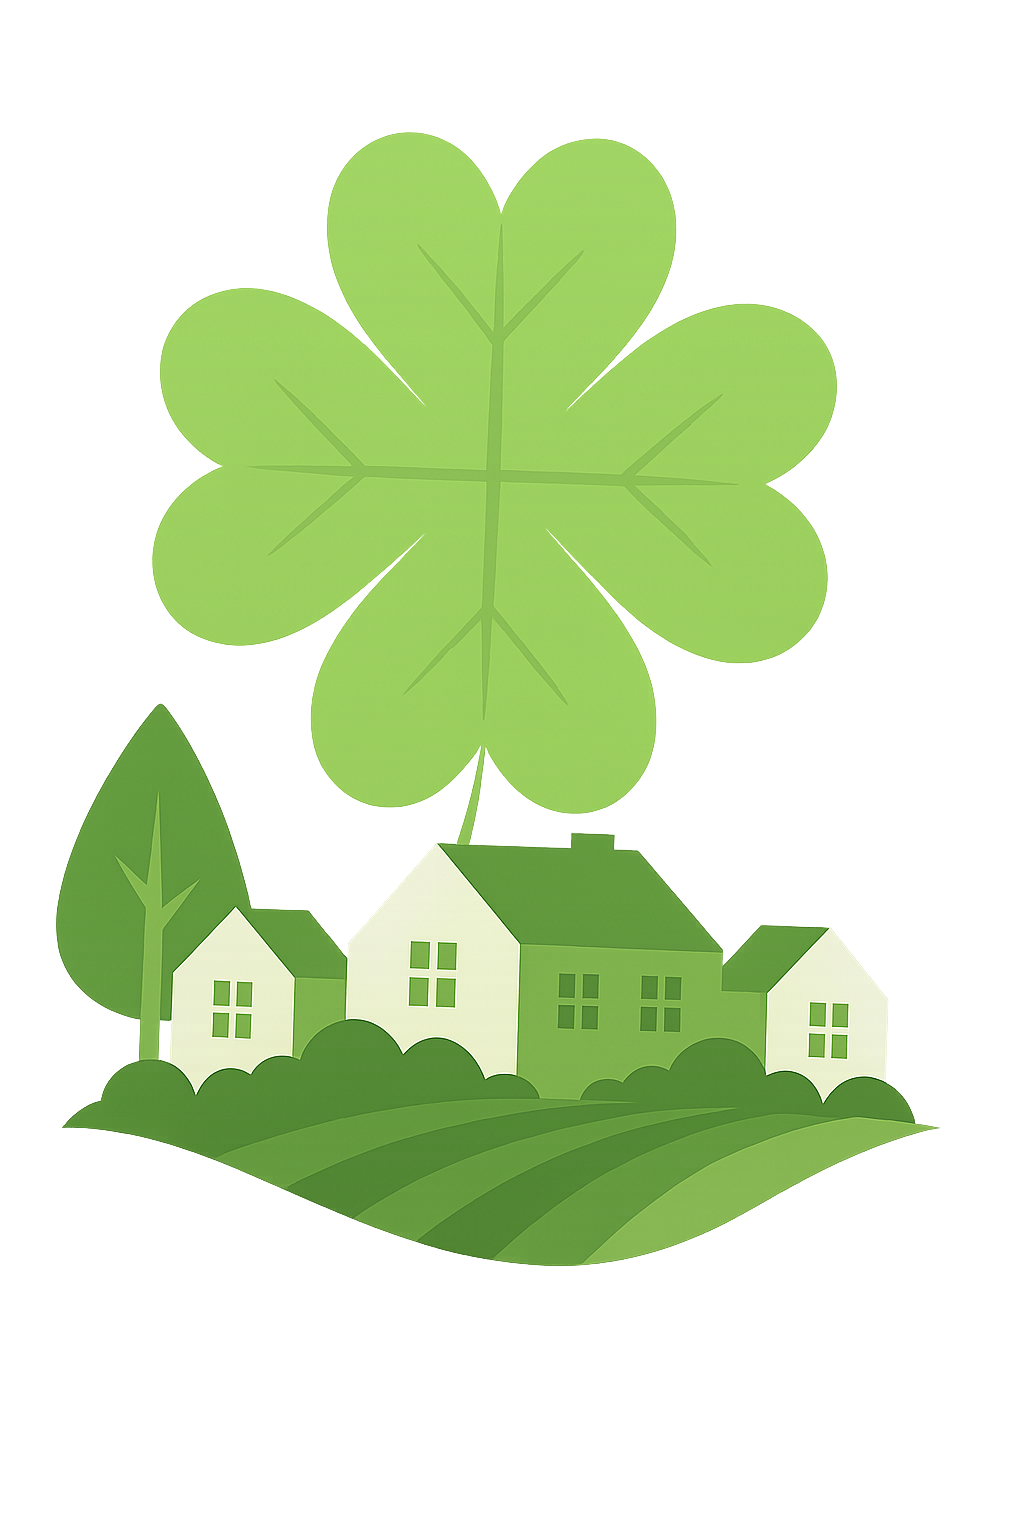
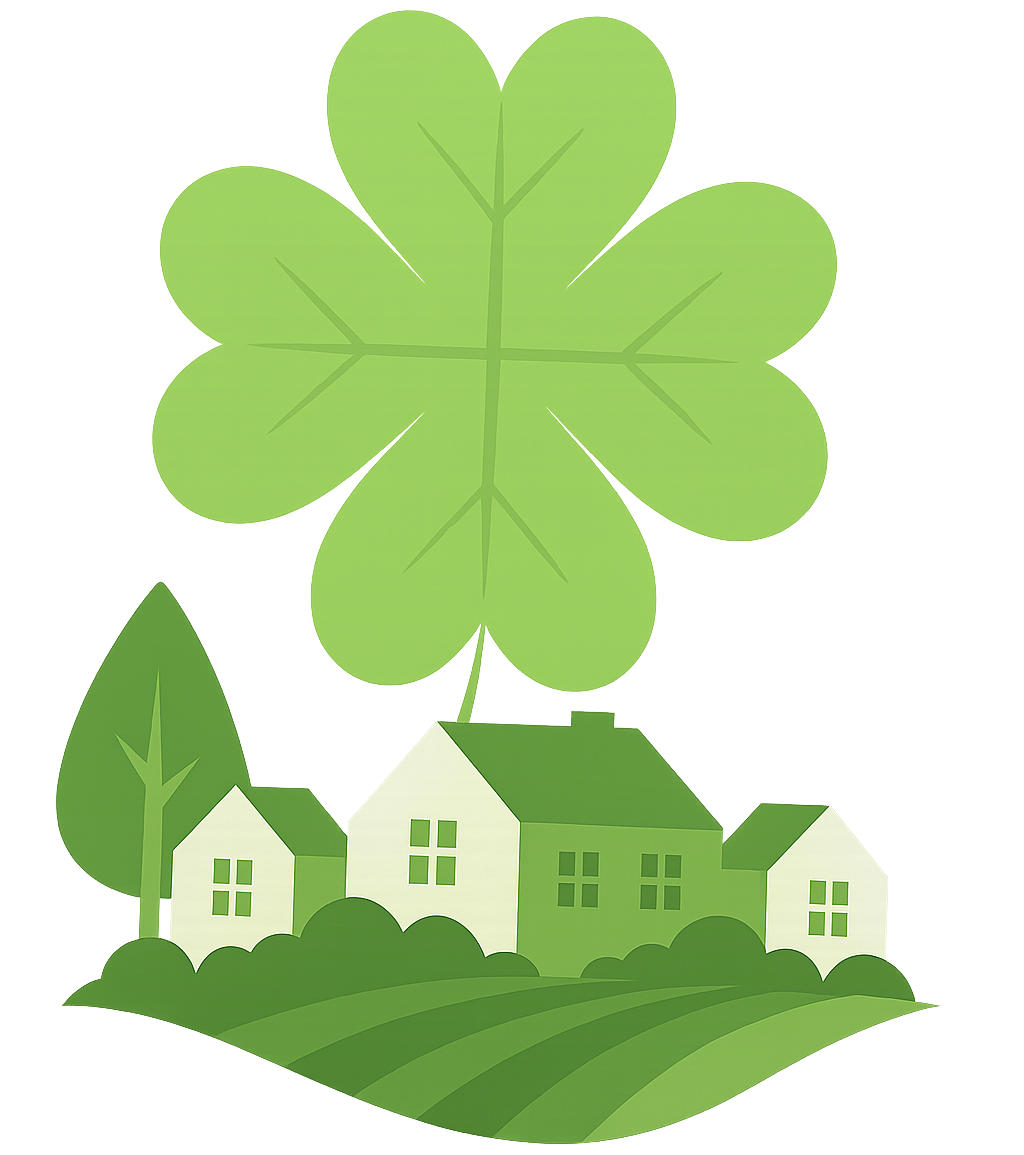
trade offers page

diff --git a/trade_offers.html b/trade_offers.html
@@ -1,0 +1,65 @@
+<!DOCTYPE html>
+<html lang="en">
+<head>
+  <meta charset="UTF-8">
+  <title>Trade Offers - Cloverville</title>
+  <link rel="stylesheet" href="css/trade_offers.css">
+  <meta name="viewport" content="width=device-width, initial-scale=1.0">
+</head>
+<body>
+
+  <!-- TOP BAR -->
+  <header class="top-bar">
+    <a href="index.html"><div class="brand"><img src="images/logo.png" alt="Cloverville logo"></div></a>
+
+    <nav class="main-nav">
+      <a href="#" class="active">Trade Offers</a>
+      <a href="#">Focus Tasks</a>
+      <a href="#">Green Actions</a>
+      <a href="#">About us</a>
+    </nav>
+  </header>
+
+  <!-- PAGE TITLE -->
+  <main>
+    <h1 class="page-title">Trade Offers</h1>
+
+    <!-- TRADE TABLE -->
+    <section class="table-section">
+      <table class="trade-table">
+        <thead>
+          <tr>
+            <th class="owner-col">Owner</th>
+            <th>Trade Offer</th>
+            <th>Exchange for<br>(points or servise)</th>
+          </tr>
+        </thead>
+
+        <tbody>
+          <tr>
+            <td class="owner-name">Labubu</td>
+            <td>Sed ut perspiciatis unde omnis iste natus error sit voluptatem</td>
+            <td>Sed ut perspiciatis unde omnis iste natus error sit voluptatem</td>
+          </tr>
+          <tr>
+            <td class="owner-name">Labubu</td>
+            <td>Sed ut perspiciatis unde omnis iste natus error sit voluptatem</td>
+            <td>Sed ut perspiciatis unde omnis iste natus error sit voluptatem</td>
+          </tr>
+          <tr>
+            <td class="owner-name">Labubu</td>
+            <td>Sed ut perspiciatis unde omnis iste natus error sit voluptatem</td>
+            <td>Sed ut perspiciatis unde omnis iste natus error sit voluptatem</td>
+          </tr>
+          <tr>
+            <td class="owner-name">Labubu</td>
+            <td>Sed ut perspiciatis unde omnis iste natus error sit voluptatem</td>
+            <td>Sed ut perspiciatis unde omnis iste natus error sit voluptatem</td>
+          </tr>
+        </tbody>
+      </table>
+    </section>
+  </main>
+
+</body>
+</html>

diff --git a/css/trade_offers.css b/css/trade_offers.css
@@ -1,0 +1,105 @@
+* {
+  box-sizing: border-box;
+}
+
+body {
+  margin: 0;
+  font-family: Arial, sans-serif;
+  background-color: #f5f3e8;
+  color: #234126;
+}
+
+/* TOP BAR */
+.top-bar {
+  display: flex;
+  justify-content: space-between;
+  align-items: center;
+  padding: 16px 40px;
+  font-size: 18px;
+}
+
+.brand img{
+    width: 140px;
+  height: auto;
+}
+
+.main-nav a {
+  display: inline-block;
+  margin-left: 24px;
+  padding: 6px 10px;
+  text-decoration: none;
+  color: #234126;
+}
+
+.main-nav a.active {
+  font-weight: bold;
+}
+
+.main-nav a:hover {
+  text-decoration: underline;
+}
+
+/* PAGE TITLE */
+.page-title {
+  text-align: center;
+  margin-top: 40px;
+  margin-bottom: 30px;
+  font-size: 28px;
+}
+
+/* TABLE SECTION */
+.table-section {
+  max-width: 1100px;
+  margin: 0 auto;
+}
+
+/* TRADE TABLE */
+.trade-table {
+  width: 100%;
+  border: 2px solid #1f4f2b;
+  border-radius: 12px;
+  border-collapse: separate; 
+  overflow: hidden;          /* keeps rounded corners */
+  background-color: #f5f3e8;
+  border-spacing: 0px;
+}
+
+/* HEADER ROW */
+.trade-table thead th {
+  padding: 16px;
+  border-bottom: 2px solid #1f4f2b;
+  text-align: center;
+  font-size: 16px;
+}
+
+.owner-col {
+  width: 18%;
+}
+
+/* BODY ROWS */
+.trade-table tbody td {
+  padding: 14px 18px;
+  font-size: 14px;
+  vertical-align: top;
+}
+
+/* vertical column lines */
+.trade-table th + th,
+.trade-table td + td {
+  border-left: 2px solid #1f4f2b;
+}
+
+/* owner column text */
+.owner-name {
+  font-weight: bold;
+}
+
+/* outer rounded corners effect */
+.trade-table {
+  border-radius: 12px;
+}
+
+/* optional: a little space around whole table */
+.table-section {
+  padding: 20px 40px 80px;
+}

diff --git a/index.html b/index.html
@@ -9,14 +9,14 @@
 <body>
 
   <header class="top-bar">
-    <div class="brand"><img src="images/logo.png"
-             alt="Cloverville logo"></div>
+    <a href="index.html"><div class="brand"><img src="images/logo.png" alt="Cloverville logo"></div></a>
 
     <nav class="main-nav">
-      <a href="#">Trade Offers</a>
-      <a href="#">Focus Tasks</a>
-      <a href="#">Green Actions</a>
-      <a href="#aboutus">About Us</a>
+        <a href="trade_offers.html">Trade Offers</a>
+        <a href="focus_tasks.html">Focus Tasks</a>
+        <a href="green_actions.html">Green Actions</a>
+        <a href="#aboutus">About Us</a>
+
     </nav>
   </header>
 

diff --git a/css/main.css b/css/main.css
@@ -76,9 +76,14 @@ text-align: center;
   color: #000000;
 }
 
+.hero-image{
+    max-width: 490px;
+    max-height: auto;
+    margin-top: 95px; 
+}
+
 .hero-image img {
   max-width: 490px;
-  margin-top: 160px; 
 }
 
 
